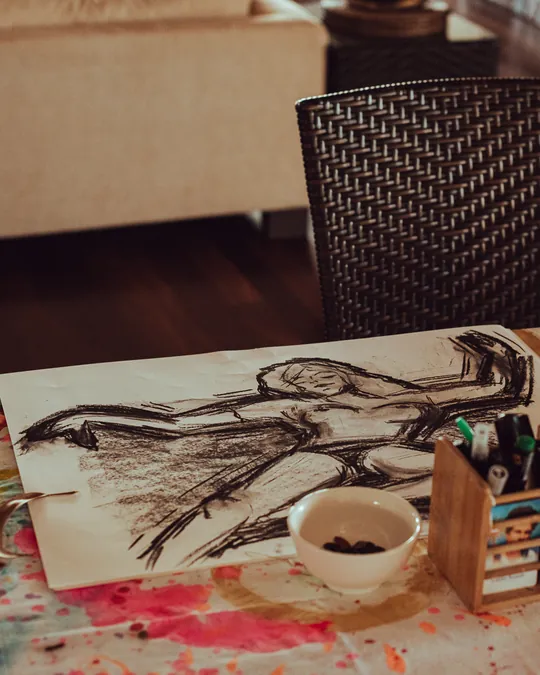
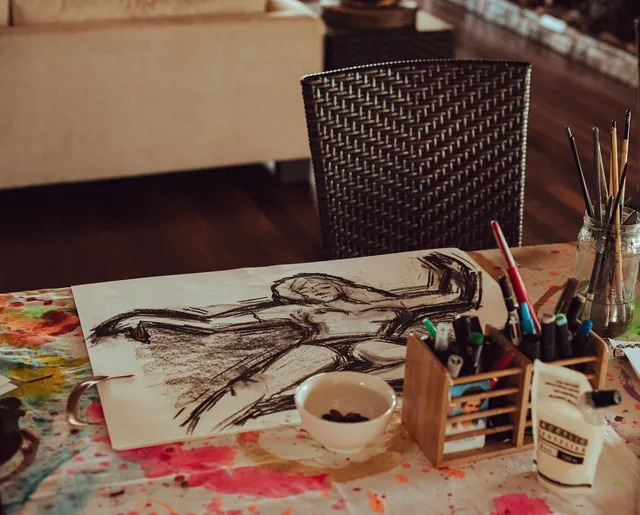
The Spark: Overview spread shows the photos whole, no captions
Claude-Session: https://claude.ai/code/session_01MZa3ad59eFGKhraoAVFBia

diff --git a/src/content/thespark.ts b/src/content/thespark.ts
@@ -177,10 +177,10 @@ export type ChapterId = 'overview' | 'experience' | 'workshops' | 'day' | 'venue
 
 /**
  * A photo or a silent looping video in a chapter's spread (files in public/thespark/).
- * Photos: <name>.webp (900w) and <name>-sm.webp (540w), 4:5. Videos: <name>.mp4 and
- * <name>-poster.webp, 4:5, no sound.
+ * Photos are shown whole: <name>.webp (1200w) and <name>-sm.webp (640w); width/height give
+ * their shape. Videos: <name>.mp4 and <name>-poster.webp, 4:5, no sound.
  */
-export type Figure = { kind: 'image' | 'video'; name: string; alt: string; caption: string }
+export type Figure = { kind: 'image' | 'video'; name: string; alt: string; width: number; height: number }
 
 export type Chapter = {
   /** Anchor: /thespark#<id>. Keep stable, links depend on it. */
@@ -278,25 +278,28 @@ export const thespark = {
       id: 'overview',
       nav: 'Overview',
       title: 'More than a holiday. A return to your creative self.',
-      // Chosen by Philine, November 2026. Captions are her labels; change them here.
+      // Chosen by Philine, November 2026: photos whole, video in the middle, no captions.
       spread: [
         {
           kind: 'image',
           name: 'painting-materials',
           alt: 'A charcoal figure drawing on a paint-splashed table beside brushes, pens and paints',
-          caption: 'Painting materials',
+          width: 1200,
+          height: 965,
         },
         {
           kind: 'video',
           name: 'quinta-javali-walk',
           alt: 'A walk through the garden at Quinta Javali towards the pool and the hills',
-          caption: 'Quinta Javali',
+          width: 600,
+          height: 750,
         },
         {
           kind: 'image',
           name: 'group-explore',
           alt: 'A hand-doodled poster inviting you to choose a colour and explore, on a painted tablecloth',
-          caption: 'Group',
+          width: 1200,
+          height: 801,
         },
       ],
       blocks: [

diff --git a/src/components/thespark/Spread.tsx b/src/components/thespark/Spread.tsx
@@ -42,39 +42,35 @@ function LoopVideo({ figure }: { figure: Figure }) {
       preload="none"
       controls={reduced}
       aria-label={figure.alt}
-      width={600}
-      height={750}
+      width={figure.width}
+      height={figure.height}
     />
   )
 }
 
-/** Three figures side by side, set like a newspaper page: double rule, column rules, numbered captions. */
+/** Three figures side by side, set like a newspaper page: double rule and column rules. Photos are shown whole. */
 export function Spread({ figures }: { figures: readonly Figure[] }) {
   return (
     <div className={styles.spread}>
-      {figures.map((f, i) => (
+      {figures.map((f) => (
         <figure key={f.name} className={styles.figure}>
-          <div className={styles.frame}>
+          <div className={f.kind === 'video' ? `${styles.frame} ${styles.videoFrame}` : styles.frame}>
             {f.kind === 'video' ? (
               <LoopVideo figure={f} />
             ) : (
               <img
                 className={styles.media}
                 src={`${base}thespark/${f.name}.webp`}
-                srcSet={`${base}thespark/${f.name}-sm.webp 540w, ${base}thespark/${f.name}.webp 900w`}
-                sizes="(max-width: 720px) 92vw, 30vw"
+                srcSet={`${base}thespark/${f.name}-sm.webp 640w, ${base}thespark/${f.name}.webp 1200w`}
+                sizes="(max-width: 720px) 92vw, 38vw"
                 alt={f.alt}
-                width={900}
-                height={1125}
+                width={f.width}
+                height={f.height}
                 loading="lazy"
                 decoding="async"
               />
             )}
           </div>
-          <figcaption className={styles.caption}>
-            <span className={styles.num}>{String(i + 1).padStart(2, '0')}</span>
-            {f.caption}
-          </figcaption>
         </figure>
       ))}
     </div>

diff --git a/src/components/thespark/Spread.module.css b/src/components/thespark/Spread.module.css
@@ -1,11 +1,12 @@
 /*
  * Chapter spread: three figures set like a newspaper page. A double hairline above,
- * 1px column rules between, numbered captions below. Square corners, flat colour,
+ * 1px column rules between, the photos whole and the video tall in the middle. Square corners, flat colour,
  * no grain over the photos (they cover the page grain).
  */
 .spread {
   display: grid;
-  grid-template-columns: repeat(3, minmax(0, 1fr));
+  /* Wide photo, tall video, wide photo. */
+  grid-template-columns: minmax(0, 3fr) minmax(0, 2fr) minmax(0, 3fr);
   column-gap: calc(2 * var(--space-6));
   position: relative;
   border-top: 1px solid var(--hairline);
@@ -28,6 +29,10 @@
   margin: 0;
   padding-block: var(--space-6);
   min-width: 0;
+  /* The photos sit in the middle of the row; the column rules still run its full height. */
+  display: flex;
+  flex-direction: column;
+  justify-content: center;
 }
 
 /* Column rules sit in the middle of the gutter, so all three columns stay the same width. */
@@ -41,33 +46,24 @@
 }
 
 .frame {
-  aspect-ratio: 4 / 5;
   overflow: hidden;
   background: var(--bg-alt);
+}
+
+.videoFrame {
+  aspect-ratio: 4 / 5;
 }
 
 .media {
   display: block;
   width: 100%;
-  height: 100%;
+  height: auto;
   max-width: none;
+}
+
+.videoFrame .media {
+  height: 100%;
   object-fit: cover;
-}
-
-.caption {
-  display: flex;
-  gap: 0.75em;
-  margin-top: var(--space-4);
-  font-size: 12px;
-  line-height: 18px;
-  font-weight: 500;
-  letter-spacing: 0.12em;
-  text-transform: uppercase;
-  color: var(--text);
-}
-
-.num {
-  color: var(--text-muted);
 }
 
 /* Phones: one column, the rules run between the figures instead. */
